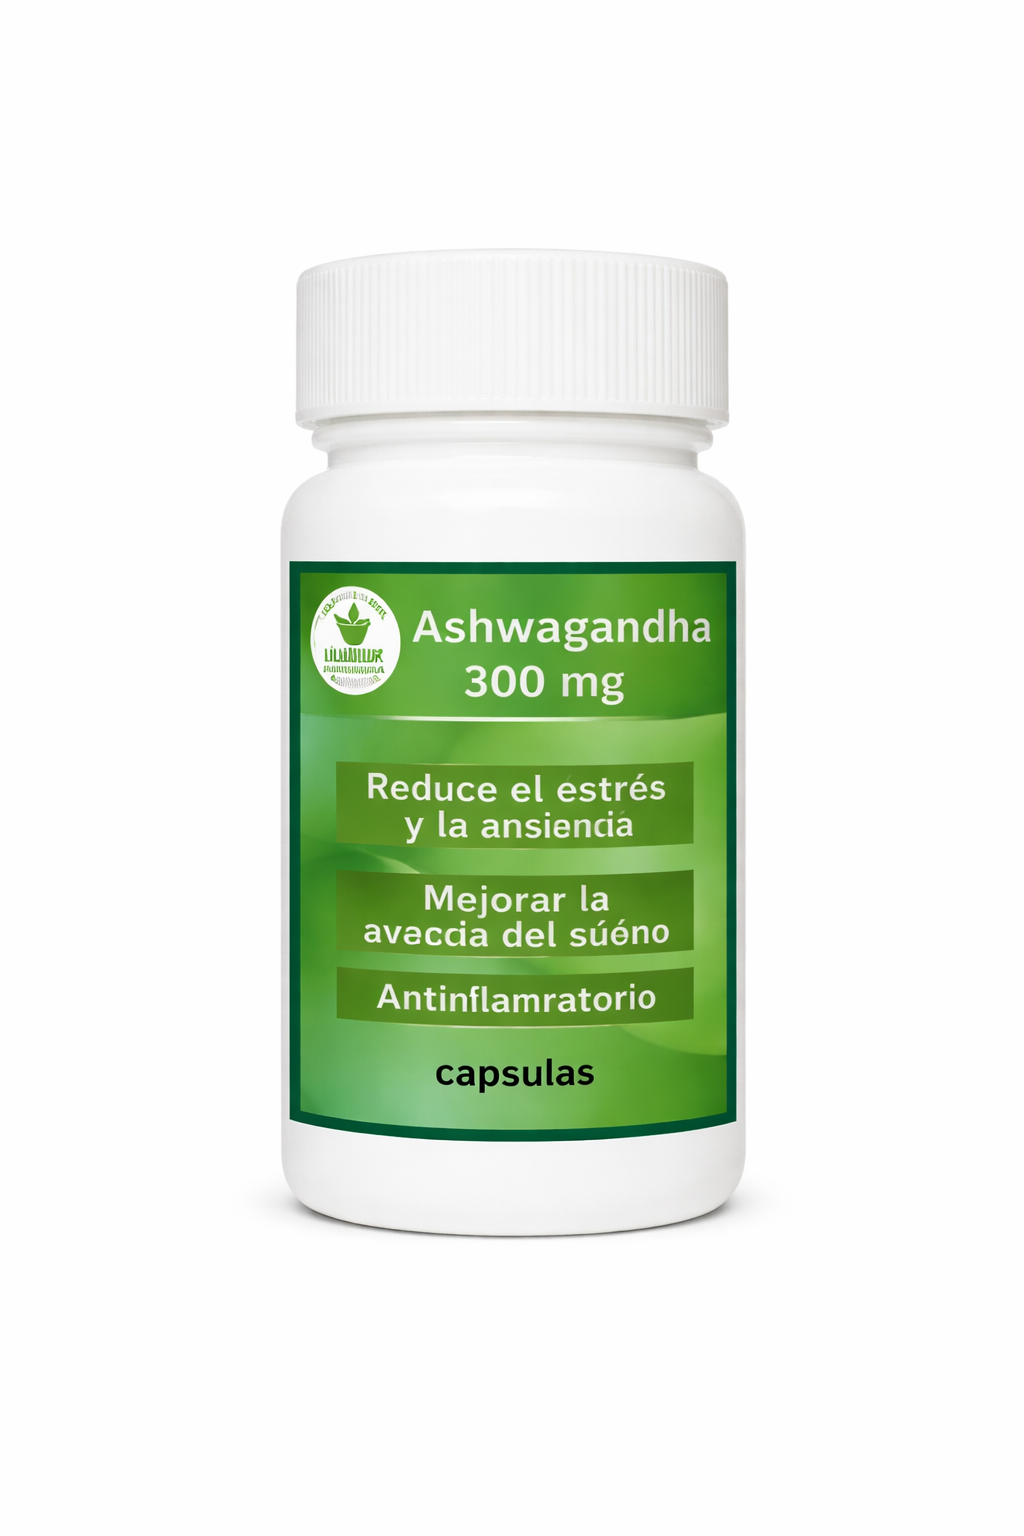
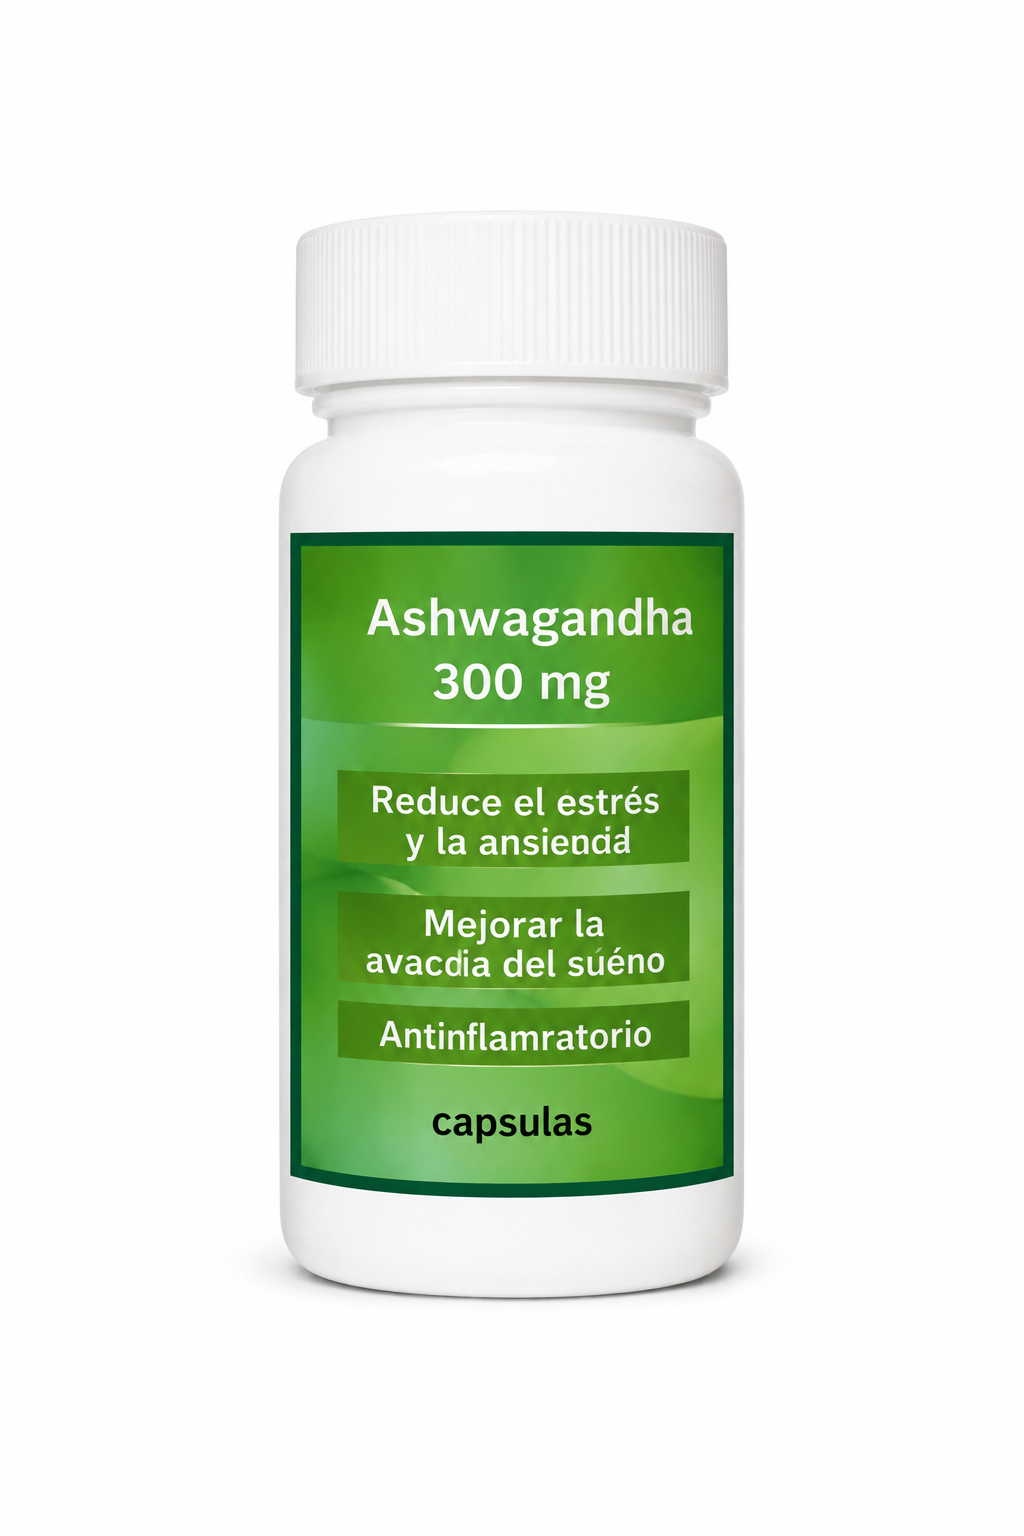
change the img and change de grid of especialites

diff --git a/src/components/EspecialidadesInfo/EspecialidadesInfo.css b/src/components/EspecialidadesInfo/EspecialidadesInfo.css
@@ -2,14 +2,18 @@
   padding: 70px 0;
   background: #f7faf3;
 }
-.contenedor-especialidades{
+
+.contenedor-especialidades {
   width: 100%;
+  max-width: 1200px;
+  margin: 0 auto;
+  padding: 0 16px;
+
   display: flex;
   flex-direction: column;
-  justify-content: center;
   align-items: center;
-
 }
+
 .especialidades-header {
   text-align: center;
   max-width: 720px;
@@ -25,21 +29,29 @@
 .especialidades-header p {
   color: var(--colorTexto);
   font-size: 1rem;
+  line-height: 1.6;
 }
 
+/* GRID */
 .especialidades-grid {
+  width: 100%;
   padding: 24px;
+
   display: grid;
-grid-template-columns: repeat(3, 1fr);  justify-content: center;
-  align-content: center;
+  grid-template-columns: repeat(6, 1fr);
   gap: 24px;
 }
 
+/* Cada card ocupa 2 columnas:
+   6 columnas / 2 = 3 cards por fila */
 .especialidad-card {
+  grid-column: span 2;
+
   background: #ffffff;
   padding: 28px;
   border-radius: 28px;
   box-shadow: 0 8px 24px rgba(0, 0, 0, 0.06);
+
   transition: transform 0.3s ease, box-shadow 0.3s ease;
 }
 
@@ -48,17 +60,30 @@ grid-template-columns: repeat(3, 1fr);  justify-content: center;
   box-shadow: 0 20px 50px rgba(0, 72, 127, 0.12);
 }
 
+/* Centra la segunda fila cuando hay 5 cards */
+.especialidades-grid > :nth-child(4) {
+  grid-column: 2 / span 2;
+}
+
+.especialidades-grid > :nth-child(5) {
+  grid-column: 4 / span 2;
+}
+
+/* ICONO */
 .especialidad-icono {
   width: 56px;
   height: 56px;
   border-radius: 18px;
+
   background: rgba(0, 128, 96, 0.08);
   color: var(--primerColor);
+
   display: flex;
   align-items: center;
   justify-content: center;
+
   margin-bottom: 20px;
-  transition: 0.3s ease;
+  transition: background 0.3s ease, color 0.3s ease;
 }
 
 .especialidad-card:hover .especialidad-icono {
@@ -70,6 +95,7 @@ grid-template-columns: repeat(3, 1fr);  justify-content: center;
   font-size: 32px;
 }
 
+/* TEXTO */
 .especialidad-card h3 {
   color: var(--primerColor);
   font-size: 1.25rem;
@@ -84,10 +110,12 @@ grid-template-columns: repeat(3, 1fr);  justify-content: center;
   margin-bottom: 22px;
 }
 
+/* LINK */
 .especialidad-link {
   display: inline-flex;
   align-items: center;
   gap: 6px;
+
   color: var(--primerColor);
   font-weight: 600;
   font-size: 0.95rem;
@@ -103,9 +131,83 @@ grid-template-columns: repeat(3, 1fr);  justify-content: center;
   transform: translateX(4px);
 }
 
+/* LISTAS PERSONALIZADAS */
+.especialidades-puntos {
+  padding: 0;
+  margin: 0;
+}
 
+.especialidades-puntos > li {
+  list-style: none;
+  position: relative;
+  padding-left: 1.8rem;
+  margin-bottom: 0.8rem;
+
+  color: #4f5b53;
+  line-height: 1.5;
+}
+
+.especialidades-puntos > li::before {
+  content: "✓";
+  position: absolute;
+  left: 0;
+  top: 0;
+
+  color: var(--primerColor);
+  font-weight: bold;
+  font-size: 1rem;
+}
+
+/* TABLET */
 @media (max-width: 1024px) {
+  .especialidades-section {
+    padding: 56px 0;
+  }
+
   .especialidades-grid {
-    grid-template-columns: repeat(1, 1fr);
+    grid-template-columns: repeat(2, 1fr);
+    padding: 20px;
+  }
+
+  .especialidad-card,
+  .especialidades-grid > :nth-child(4),
+  .especialidades-grid > :nth-child(5) {
+    grid-column: auto;
+  }
+}
+
+/* MOBILE */
+@media (max-width: 600px) {
+  .especialidades-section {
+    padding: 45px 0;
+  }
+
+  .especialidades-header {
+    margin-bottom: 24px;
+  }
+
+  .especialidades-header h2 {
+    font-size: 1.6rem;
+  }
+
+  .especialidades-grid {
+    grid-template-columns: 1fr;
+    gap: 18px;
+    padding: 12px;
+  }
+
+  .especialidad-card {
+    padding: 22px;
+    border-radius: 22px;
+  }
+
+  .especialidad-icono {
+    width: 50px;
+    height: 50px;
+    border-radius: 16px;
+  }
+
+  .especialidad-icono span {
+    font-size: 28px;
   }
 }

diff --git a/src/components/Home/Home.jsx b/src/components/Home/Home.jsx
@@ -318,9 +318,9 @@ export default function Home() {
           </div>
         </div>
       </section>
-<section>
-  <EspecialidadesInfo></EspecialidadesInfo>
-</section>
+
+      <EspecialidadesInfo></EspecialidadesInfo>
+
       <section class="horarios-section">
         <div class="horarios-overlay"></div>
 

diff --git a/src/App.jsx b/src/App.jsx
@@ -236,7 +236,7 @@ Preparado únicamente para uso externo. `,
     nombre: "Spray Repelente De Insectos",
     img: ["1.jpg", "2.jpg", "3.jpg"],
     compo:
-      "Rp/ dietiltoluamida 25% ; Ac Citronella 2.5 %; exp (glicerina,alcohol ) csp 100 m",
+      "Rp/ dietiltoluamida 25% ; Ac Citronella 2.5 %; exp (glicerina,alcohol ) csp 100 ml",
     uso: `Antes de aplicar el repelente, la  piel debe estar  limpia y seca. Agita bien el envase y rocía el producto a una distancia adecuada (entre 10 y 15 cm) sobre las zonas expuestas del cuerpo. Evita aplicar directamente en el rostro: en su lugar, rocía un poco en tus manos y luego distribúyelo con cuidado, evitando el contacto con ojos, boca y mucosas.
 No uses una cantidad excesiva; una capa ligera es suficiente para que el producto sea efectivo. Tampoco lo apliques sobre heridas, irritaciones o piel dañada. Si estás usando protector solar, primero aplica el protector, deja que se absorba y luego coloca el repelente.`,
     recomendaciones: `Evita aplicar directamente en el rostro: en su lugar, rocía un poco en tus manos y luego distribúyelo con cuidado, evitando el contacto con ojos, boca y mucosas.
@@ -532,7 +532,7 @@ No uses una cantidad excesiva; una capa ligera es suficiente para que el product
     nombre: "Cápsulas de ashwagandha",
     img: ["1.jpg", "2.jpg", "3.jpg"],
     compo:
-      "Extracto seco de ashwagandha de león 300 mg  ; excipientes  csp 50 capsulas ",
+      "Rp/ Extracto seco de ashwagandha 300 mg  ; excipientes csp 50 capsulas ",
     uso: `La dosis indicada es de 1 o 2 capsulas por día ,según la indicación médica. Para mejorar su absorción, se recomienda tomar las cápsulas antes  de acostarse para potenciar el efecto sedante  y la conciliación del sueño  , después de las comidas `,
     recomendaciones: `Las capsulas deben guardarse en un lugar seco, fresco y alejado de la luz solar directa. La humedad y el calor pueden alterar la estructura de la cápsula o degradar el principio activo , se recomienda conservarlas entre 15 °C y 25 °C, a menos que el envase indique lo contrario. Mantener las cápsulas siempre en su envase original, bien cerrado, para evitar contaminación, exposición al aire o confusión con otros medicamentos. Es importante no tocar las cápsulas con las manos sucias o mojadas, ya que la humedad puede dañarlas. Deben mantenerse fuera del alcance de los niños: para evitar ingestas accidentales. `,
     beneficios: [